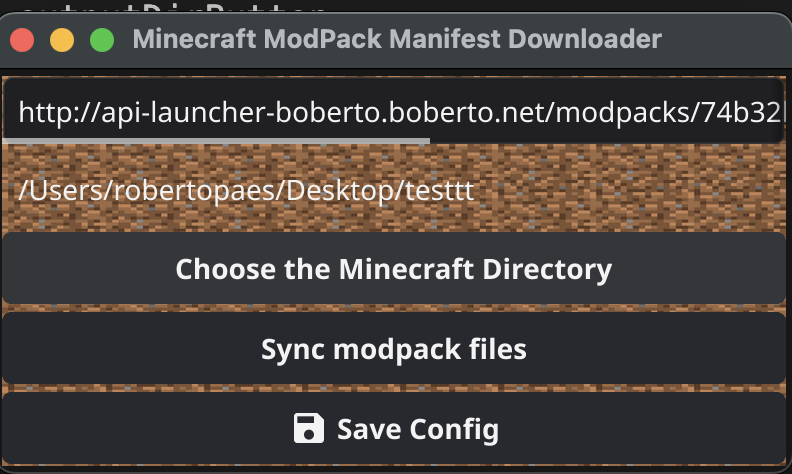
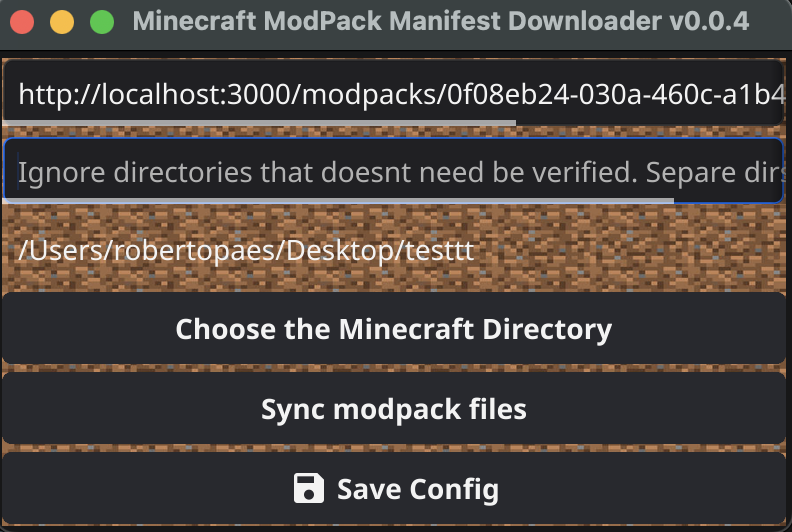
update screenshot and update release to v0.0.4

diff --git a/main.go b/main.go
@@ -4,6 +4,7 @@ import (
 	"fmt"
 	"log"
 	"runtime"
+	"strings"
 	"sync"
 
 	"fyne.io/fyne/v2"
@@ -28,10 +29,15 @@ const (
 func main() {
 	myApp := app.New()
 	myWindow := myApp.NewWindow(fmt.Sprintf("Minecraft ModPack Manifest Downloader %s", VERSION))
-	backgroundImage := canvas.NewImageFromFile("assets/background.jpg") // Replace "background.jpg" with your image file path
+	backgroundImage := canvas.NewImageFromFile("./assets/background.jpg") // Replace "background.jpg" with your image file path
 	backgroundImage.FillMode = canvas.ImageFillStretch
 	backgroundContainer := container.NewStack(backgroundImage)
+	cfg, _ := config.LoadConfig()
+	progressBar := widget.NewProgressBarInfinite()
+	progressBar.Hide()
 	//// INPUT FIELDS
+	ignoreFolders := widget.NewEntry()
+	ignoreFolders.SetPlaceHolder("Ignore directories that doesnt need be verified. Separe dirs using ','")
 	manifestURLEntry := widget.NewEntry()
 	manifestURLEntry.SetPlaceHolder("Enter Manifest URL")
 	outputDirLabel := widget.NewLabel("Output Directory: Not Selected")
@@ -44,8 +50,9 @@ func main() {
 	})
 	saveConfigButton := widget.NewButtonWithIcon("Save Config", theme.DocumentSaveIcon(), func() {
 		cfg := &config.Config{
-			ManifestURL: manifestURLEntry.Text,
-			OutputDir:   outputDirLabel.Text,
+			ManifestURL:   manifestURLEntry.Text,
+			OutputDir:     outputDirLabel.Text,
+			IgnoreFolders: ignoreFolders.Text,
 		}
 		err := cfg.SaveConfig()
 		if err != nil {
@@ -54,76 +61,35 @@ func main() {
 			dialog.ShowInformation("Config Saved", "Configuration saved successfully!", myWindow)
 		}
 	})
-	progressBar := widget.NewProgressBarInfinite()
-	progressBar.Hide()
-	var downloadButton *widget.Button
-	downloadButton = widget.NewButton("Sync modpack files", func() {
+
+	downloadButton := widget.NewButton("Sync modpack files", func() {
 		manifestURL := manifestURLEntry.Text
-		if manifestURL == "" {
-			dialog.ShowError(errors.New("Please enter a valid manifest URL"), myWindow)
-			return
-		}
 		outputDir := outputDirLabel.Text
-		if outputDir == "Output Directory: Not Selected" {
-			dialog.ShowError(errors.New("Please choose an output directory"), myWindow)
-			return
-		}
-		files, err := operations.DownloadManifestFiles(manifestURL)
-		if err != nil {
-			dialog.ShowError(err, myWindow)
-			return
-		}
-		var wg sync.WaitGroup
-		totalFiles := len(files)
-		wg.Add(totalFiles)
-		go func() {
-			myWindow.SetContent(container.NewVBox(
-				manifestURLEntry,
-				outputDirLabel,
-				outputDirButton,
-				progressBar,
-				downloadButton,
-			))
-
-			progressBar.Show()
-
-			for _, file := range files {
-				go func(file operations.File) {
-					defer wg.Done()
-
-					err := operations.DownloadFile(file, outputDir)
-					if err != nil {
-						dialog.ShowError(err, myWindow)
-						return
-					}
-				}(file)
-			}
-			wg.Wait()
-			err := operations.CleanupOutputDir(files, outputDir)
-			if err != nil {
-				dialog.ShowError(err, myWindow)
-				return
-			}
+		ignoreFolders := strings.Split(ignoreFolders.Text, ",")
+		progressBar.Show()
+		err := startSync(manifestURL, outputDir, ignoreFolders, func() {
 			progressBar.Hide()
 			dialog.ShowInformation("Success", "Files downloaded successfully!", myWindow)
-			myWindow.SetContent(container.NewVBox(
-				manifestURLEntry,
-				outputDirLabel,
-				outputDirButton,
-				downloadButton,
-			))
-		}()
+		})
+		if err != nil {
+			progressBar.Hide()
+			dialog.ShowError(err, myWindow)
+		}
+
 	})
-	///auto updater
-	checkUpdate(myWindow)
-	cfg, _ := config.LoadConfig()
+	///set loaded config to fields
 	manifestURLEntry.SetText(cfg.ManifestURL)
 	outputDirLabel.SetText(cfg.OutputDir)
+	ignoreFolders.SetText(cfg.IgnoreFolders)
+	///auto updater
+	checkUpdate(myWindow)
 
 	content := container.NewVBox(
 		manifestURLEntry,
+		ignoreFolders,
 		outputDirLabel,
 		outputDirButton,
+		progressBar,
 		downloadButton,
 		saveConfigButton,
 	)
@@ -132,6 +98,42 @@ func main() {
 	myWindow.SetContent(mainContainer)
 	myWindow.Resize(fyne.NewSize(400, 200))
 	myWindow.ShowAndRun()
+}
+
+func startSync(manifestUrl string, outputDir string, ignoreFolders []string, onFinish func()) error {
+	if manifestUrl == "" {
+		return errors.Errorf("Please enter a valid manifest URL")
+	}
+	if outputDir == "Output Directory: Not Selected" {
+		return errors.Errorf("Please choose an output directory")
+	}
+	files, err := operations.ReadManifestFiles(manifestUrl)
+	if err != nil {
+		return errors.Errorf("Error on dowload manifest files")
+	}
+	var wg sync.WaitGroup
+	totalFiles := len(files)
+	wg.Add(totalFiles)
+	go func() error {
+		for _, file := range files {
+			go func(file operations.File) error {
+				defer wg.Done()
+				err := operations.DownloadFile(file, outputDir)
+				if err != nil {
+					return err
+				}
+				return nil
+			}(file)
+		}
+		wg.Wait()
+		err := operations.CleanupOutputDir(files, outputDir, ignoreFolders)
+		if err != nil {
+			return err
+		}
+		onFinish()
+		return nil
+	}()
+	return nil
 }
 
 func checkUpdate(window fyne.Window) {
@@ -144,7 +146,7 @@ func checkUpdate(window fyne.Window) {
 		Version:        VERSION,
 	}
 	latestVersion, _ := u.GetLatestVersion()
-	confirmDialog := dialog.NewConfirm(fmt.Sprintf("New release %s is available to update", latestVersion), "A update was found. You can update now.", func(response bool) {
+	confirmDialog := dialog.NewConfirm(fmt.Sprintf("New release %s is available to download", latestVersion), "A update was found. You can update now.", func(response bool) {
 		if response {
 			log.Println("start update")
 			u.Update()

diff --git a/operations/operations.go b/operations/operations.go
@@ -5,11 +5,13 @@ import (
 	"encoding/hex"
 	"encoding/json"
 	"io"
+	"log"
 	"net/http"
 	"os"
 	"path/filepath"
 
 	"github.com/pkg/errors"
+	"golang.org/x/exp/slices"
 )
 
 type File struct {
@@ -19,7 +21,7 @@ type File struct {
 	Hash string `json:"hash"`
 }
 
-func DownloadManifestFiles(url string) ([]File, error) {
+func ReadManifestFiles(url string) ([]File, error) {
 	response, err := http.Get(url)
 	if err != nil {
 		return nil, errors.Wrap(err, "failed to fetch manifest")
@@ -36,25 +38,30 @@ func DownloadManifestFiles(url string) ([]File, error) {
 }
 
 func DownloadFile(file File, outputDir string) error {
-	outFilePath := filepath.Join(outputDir, file.Name)
+	outFilePath := filepath.Join(outputDir, file.Path)
+	dirName, _ := filepath.Split(outFilePath)
+	err := os.MkdirAll(dirName, 0744)
+	if err != nil {
+		return errors.Wrapf(err, "failed to create dir: %s", outFilePath)
+	}
 	outFile, err := os.Create(outFilePath)
 	if err != nil {
 		return errors.Wrapf(err, "failed to create file: %s", outFilePath)
 	}
 	defer outFile.Close()
-
 	response, err := http.Get(file.URL)
 	if err != nil {
 		return errors.Wrapf(err, "failed to download file: %s", file.Name)
 	}
 	defer response.Body.Close()
 	_, err = io.Copy(io.MultiWriter(outFile), response.Body)
+
 	if err != nil {
 		return errors.Wrapf(err, "failed to save file: %s", file.Name)
 	}
 	return nil
 }
-func CleanupOutputDir(manifestFiles []File, outputDir string) error {
+func CleanupOutputDir(manifestFiles []File, outputDir string, ignoreFolders []string) error {
 	manifestFileSet := make(map[string]string)
 	for _, file := range manifestFiles {
 		manifestFileSet[file.Path] = file.Hash
@@ -64,7 +71,10 @@ func CleanupOutputDir(manifestFiles []File, outputDir string) error {
 		if err != nil {
 			return errors.Wrapf(err, "error accessing path %s", filePath)
 		}
-
+		if slices.Contains(ignoreFolders, fileInfo.Name()) {
+			log.Println("Ignore ", fileInfo.Name(), "because is ignored by ignore folders", ignoreFolders)
+			return filepath.SkipDir
+		}
 		if !fileInfo.IsDir() {
 			relativePath, err := filepath.Rel(outputDir, filePath)
 			if err != nil {
@@ -73,6 +83,7 @@ func CleanupOutputDir(manifestFiles []File, outputDir string) error {
 
 			if expectedHash, exists := manifestFileSet[relativePath]; !exists {
 				err := os.Remove(filePath)
+				log.Println("remove filepath", filePath, relativePath)
 				if err != nil {
 					return errors.Wrapf(err, "failed to delete file: %s", filePath)
 				}

diff --git a/config/config.go b/config/config.go
@@ -8,8 +8,9 @@ import (
 )
 
 type Config struct {
-	ManifestURL string `json:"manifest_url"`
-	OutputDir   string `json:"output_dir"`
+	ManifestURL   string `json:"manifest_url"`
+	OutputDir     string `json:"output_dir"`
+	IgnoreFolders string `json:"ignore_folders"`
 }
 
 var configFilePath = "config.json"
